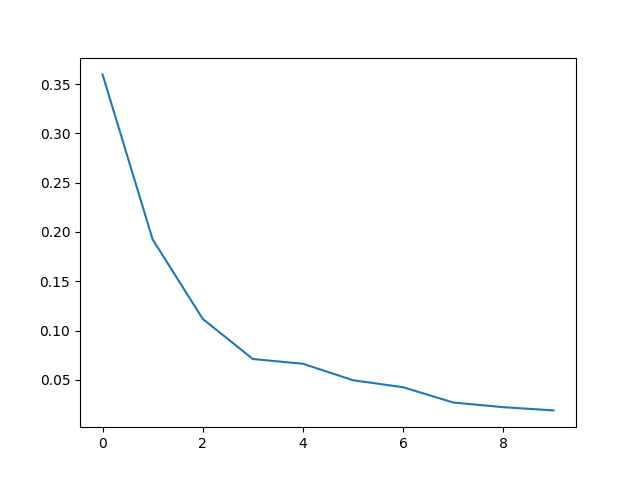
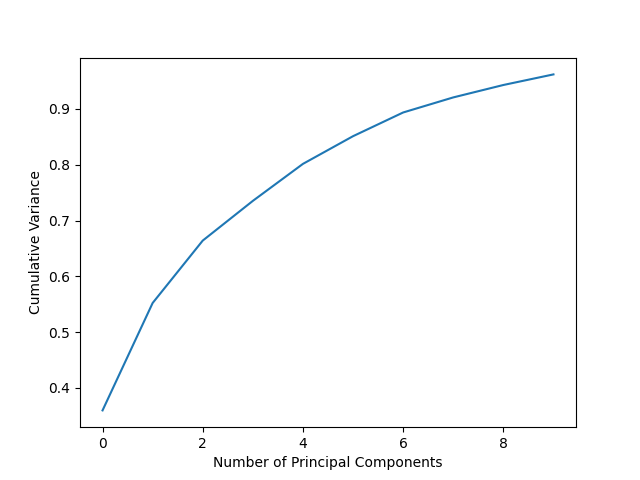
Q1 done

diff --git a/Asgn2/Kmeans.py b/Asgn2/Kmeans.py
@@ -1,5 +1,4 @@
 import numpy as np
-from sklearn.metrics.cluster import normalized_mutual_info_score
 """
 Function to get initial cluster representatives.
 """
@@ -11,6 +10,58 @@ def getInitialRep(k,data,random):
         else:
             rep.append(data.iloc[i])
     return rep
+
+# function to calculate NMI
+def NMI_calculator(labels, clusters):
+    # calculate mutual information
+    mutual_info = mutual_information(labels, clusters)
+    # calculate entropy
+    entropy_labels = entropy(labels)
+    entropy_clusters = entropy(clusters)
+    # calculate normalized mutual information
+    nmi = 2 * mutual_info / (entropy_labels + entropy_clusters)
+    return nmi
+
+# function to compute mutual information
+def mutual_information(labels_true, labels_pred):
+
+    mutual_info = 0
+    
+    pred_classes = np.unique(labels_pred, return_counts=True)    # classes in the predicted labels with their frequency
+    true_classes = len(np.unique(labels_true))                   # number of classes in the true labels
+
+    # calculate mutual information
+    for i in range(len(pred_classes[0])):
+        # probability of the class in the predicted labels
+        p_class = np.zeros(true_classes)
+        for j in range(len(labels_pred)):
+
+            if labels_pred[j] == pred_classes[0][i]:
+                p_class[labels_true[j]-1] += 1
+
+        p_class /= pred_classes[1][i]
+        # calculate the entropy in the class i
+        Entropy = 0
+        for j in range(true_classes):
+            if p_class[j] != 0:
+                Entropy += p_class[j] * np.log2(p_class[j])
+        mutual_info += pred_classes[1][i] / len(labels_true) * Entropy
+    # return H(Y) - H(Y|C)
+    return entropy(labels_true) + mutual_info
+
+# function to calculate entropy
+def entropy(labels):
+
+    entropy = 0
+    N = len(labels)
+
+    # calculate probability
+    prob = np.unique(labels, return_counts=True)[1] / N
+    # calculate entropy
+    for p in prob:
+        if p != 0:
+            entropy += p * np.log2(p)
+    return -entropy
 
 
 """
@@ -37,10 +88,10 @@ def Kmeans(rep,data,y):
             loss += np.min(dist)
         Jclust.append(loss/N)
         if allsame:
-            NMI = normalized_mutual_info_score(replabel,y)
-            print(f"For k = {len(rep)}, terminating at {i-1}th iteration because no change in assignment, thus algo has converged at loss = {loss/N}, NMI = {NMI}")
+            NMI = NMI_calculator(replabel,y)
+            print(f"For k = {len(rep)}:\nTerminating at {i-1}th iteration, Loss = {loss/N}, NMI = {NMI}")
             break
-            
+        
         # updating reps based on new clustering
         seen = np.zeros((len(rep),1))
         for j in range(N):

diff --git a/Asgn2/Q1.py b/Asgn2/Q1.py
@@ -2,7 +2,7 @@ import pandas as pd
 import numpy as np
 import matplotlib.pyplot as plt
 from sklearn.decomposition import PCA
-from sklearn.preprocessing import StandardScaler
+from data_processing import normalize
 from Kmeans import getInitialRep,Kmeans
 
 df = pd.read_csv("wine.csv")
@@ -11,16 +11,27 @@ x = df.drop(columns=["Target Class"],axis=1)
 y = df["Target Class"]
 
 
-x_normalised = StandardScaler().fit_transform(x)
-
+x_normalised,y_normalised = normalize(x,y)
 
 pca = PCA(0.95)
 principalComponents = pca.fit_transform(x_normalised)
 principalDf = pd.DataFrame(data = principalComponents)
 
-print(pca.explained_variance_ratio_)
-plt.plot(pca.explained_variance_ratio_)
+plt.ylabel("Cumulative Variance")
+plt.xlabel("Number of Principal Components")
+var = pca.explained_variance_ratio_
+for i in range(len(var)-1):
+    var[i+1] = var[i+1]+var[i]
+print("Cumulative Variance based on number of components : ",var)
+plt.plot(var)
 plt.savefig("Variance_VS_Component_number.png", format="png")
+plt.show()
+
+# print("Scatter plot of 1st component before and after PCA: ")
+plt.xlabel("1st Component Before PCA")
+plt.ylabel("1st Component After PCA")
+plt.scatter(principalDf[principalDf.columns[0]],principalDf[principalDf.columns[1]],c=y)
+plt.savefig("PCA_visulation.png", format="png")
 plt.show()
 
 K,NMI = [],[]
@@ -30,8 +41,9 @@ for k in range(2,9):
     K.append(k)
     NMI.append(nmi)
 
-print(K)
-print(NMI)
+print("NMI List with K from [2-8] : ", NMI)
+plt.xlabel("Number of Clusters (k)")
+plt.ylabel("NMI")
 plt.plot(K,NMI)
 plt.savefig("K_VS_NMI.png", format="png")
 plt.show()
